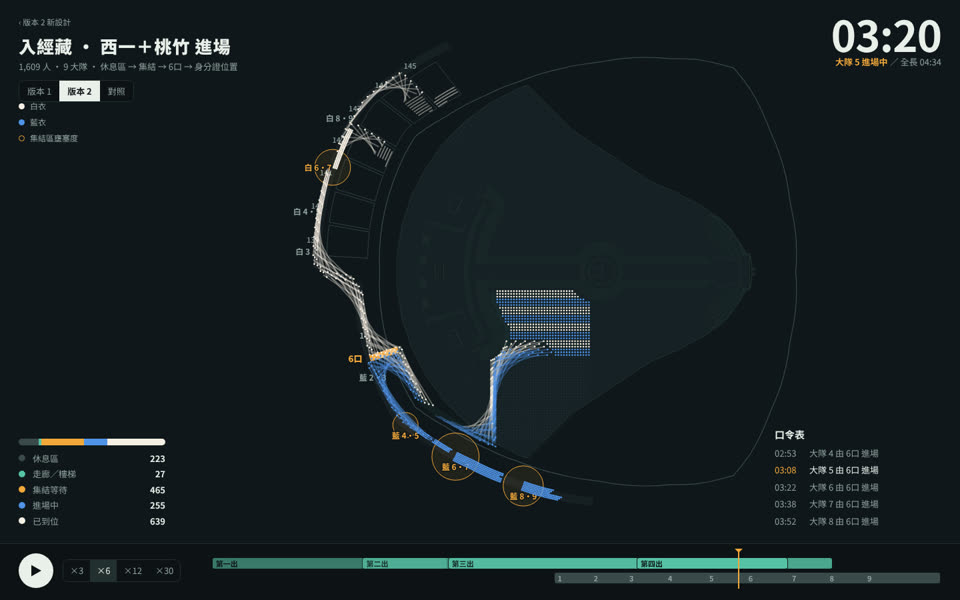
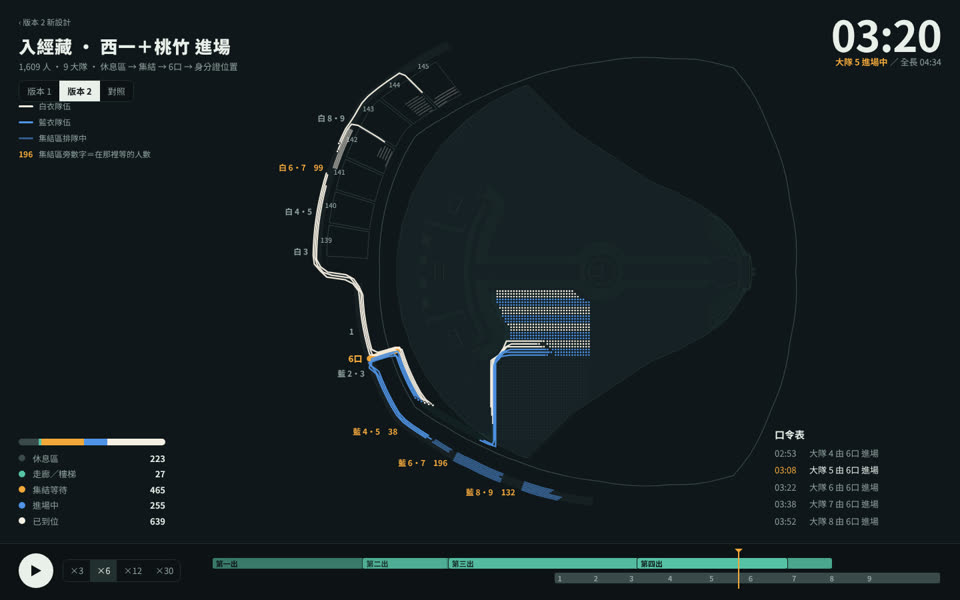
feat(taipei-dome): 版本 2 新設計的指揮台改畫隊伍線
- 拿掉每人 2 秒拖尾（兩、三百條半透明斜線在 6口 與看台出口疊成一團，轉彎處還會斜切）
- 同一列、同一階段（走／等／進場）的人依前後順序連成一條隊伍線，距離拉開就斷開；
  行進中的線頭加點標出前方，集結區排隊中的列畫淡
- 集結區不再畫壅塞圈，名稱旁直接寫此刻等待人數；名稱右對齊放在看台外側，不壓看台編號
- 窄地圖（手機、對照時的半寬）多留左側空間；對照時收起圖例；手機時鐘移到右下
- 首頁說明與截圖同步更新

Claude-Session: https://claude.ai/code/session_01JFbRJwaNxoE8n7MabkGeoG

Changed region(s): [[0.2812, 0.18, 0.5938, 0.84], [0.0, 0.15, 0.1562, 0.27], [0.375, 0.09, 0.4688, 0.18]]

diff --git a/design-explorations/taipei-dome/flow/entry-animation-v2/redesign/a-console.html b/design-explorations/taipei-dome/flow/entry-animation-v2/redesign/a-console.html
@@ -53,6 +53,8 @@ canvas{display:block;width:100%;height:100%}
 .legend{position:absolute;left:28px;top:150px;display:flex;flex-direction:column;gap:6px;font-size:12px;color:var(--dim);z-index:2}
 .legend span{display:flex;align-items:center;gap:8px}
 .legend i{width:9px;height:9px;border-radius:50%}
+.legend i.ln{width:22px;height:3px;border-radius:2px}.legend i.ln.dim{opacity:.55}
+.legend .num{color:var(--amber);font-size:12px;min-width:22px}
 /* 底部時間軸 */
 .deck{grid-row:2;border-top:1px solid var(--line);padding:14px 28px 18px;display:grid;grid-template-columns:auto 1fr;gap:20px;align-items:center;background:var(--bg)}
 .ctl{display:flex;gap:6px;align-items:center}
@@ -73,8 +75,9 @@ canvas{display:block;width:100%;height:100%}
 .head{position:absolute;top:-6px;bottom:-4px;width:2px;background:var(--amber);pointer-events:none}
 .head::after{content:'';position:absolute;top:-4px;left:-5px;border:6px solid transparent;border-top-color:var(--amber)}
 .track.has-labels{margin-left:44px}
+.cmp-mode .legend{display:none}
 .loading{position:absolute;inset:0;display:grid;place-items:center;color:var(--dim)}
-@media(max-width:860px){.focus,.legend{display:none}.title p{display:none}.clock{top:auto;bottom:200px;right:16px}.clock b{font-size:36px}.title h1{font-size:20px}.flows{width:180px;left:16px}.deck{padding:10px 16px;grid-template-columns:1fr}.title{left:16px}.maps.cmp{grid-template-columns:1fr;grid-template-rows:1fr 1fr}.pane+.pane{border-left:0;border-top:1px solid var(--line)}.cmp-mode .flows{display:none}.cmp-mode .clock{bottom:auto;top:14px}.cmp-mode .clock b{font-size:28px}.cmp-mode .clock .phase,.cmp-mode .title h1{display:none}.pane h2{bottom:8px;font-size:13px}}
+@media(max-width:860px){.focus,.legend{display:none}.title p{display:none}.clock{top:auto;bottom:24px;right:16px;max-width:150px}.clock b{font-size:34px}.clock span{display:block}.title h1{font-size:20px}.flows{width:180px;left:16px}.deck{padding:10px 16px;grid-template-columns:1fr}.title{left:16px}.maps.cmp{grid-template-columns:1fr;grid-template-rows:1fr 1fr}.pane+.pane{border-left:0;border-top:1px solid var(--line)}.cmp-mode .flows{display:none}.cmp-mode .clock{bottom:auto;top:14px}.cmp-mode .clock b{font-size:28px}.cmp-mode .clock .phase,.cmp-mode .title h1{display:none}.pane h2{bottom:8px;font-size:13px}}
 </style>
 </head>
 <body>
@@ -83,7 +86,7 @@ canvas{display:block;width:100%;height:100%}
  <div class="hud">
  <div class="title"><a href="index.html">‹ 版本 2 新設計</a><h1>入經藏 · 西一＋桃竹 進場</h1><p>1,609 人 · 9 大隊 · 休息區 → 集結 → 6口 → 身分證位置</p><div id="vs"></div></div>
  <div class="clock"><b id="clock">00:00</b><span class="phase" id="phase"></span> <span>／ 全長 <span id="end"></span></span></div>
- <div class="legend"><span><i style="background:var(--white)"></i>白衣</span><span><i style="background:var(--blue)"></i>藍衣</span><span><i style="border:1.5px solid var(--amber)"></i>集結區壅塞度</span></div>
+ <div class="legend"><span><i class="ln" style="background:var(--white)"></i>白衣隊伍</span><span><i class="ln" style="background:var(--blue)"></i>藍衣隊伍</span><span><i class="ln dim" style="background:var(--blue)"></i>集結區排隊中</span><span><b class="num">196</b>集結區旁數字＝在那裡等的人數</span></div>
  <div class="flows" id="flows"></div>
  <div class="focus" id="focus"><strong>口令表</strong><ol id="cues"></ol></div>
  </div>
@@ -102,7 +105,7 @@ const {pos,state,counts,fmt,delta,View}=Dome,$=id=>document.getElementById(id);
 const css=n=>getComputedStyle(document.documentElement).getPropertyValue('--'+n).trim();
 const C={};for(const n of ['map','floor','line','faint','dim','ink','white','blue','amber','teal','bg'])C[n]=css(n);
 const STATES=[['seated','休息區',C.faint],['walk','走廊／樓梯',C.teal],['wait','集結等待',C.amber],['enter','進場中',C.blue],['done','已到位',C.white]];
-const FRAME=[-15.5,-11.6,4,11.6];
+const frameFor=v=>v.w<760?[-19,-11.6,4,11.6]:[-15.5,-11.6,4,11.6];
 let sets=[],panes=[],t=0,playing=false,speed=6,last=0,dirty=true,T=1,cues=[];
 const pct=x=>x/T*100+'%';
 function stats(ds){const P=ds.P,waves=[1,2,3,4].map(w=>{const ts=P.filter(p=>p.exitWave===w).map(p=>p.t.leave);return {w,a:Math.min(...ts),b:Math.max(...ts)};});
@@ -113,7 +116,7 @@ async function setVersion(m){$('loading')&&($('loading').hidden=false);
  T=Math.max(...sets.map(d=>d.T_END));t=Math.min(t,T);
  const cmp=sets.length>1;$('maps').className='maps'+(cmp?' cmp':'');$('stage').classList.toggle('cmp-mode',cmp);
  $('maps').innerHTML=sets.map((d,i)=>`<div class="pane"><canvas id="cv${i}" aria-label="${d.label}動線地圖"></canvas><h2>${d.label}<small>${d.sub}</small></h2></div>`).join('');
- panes=sets.map((d,i)=>{const v=new View($('cv'+i),{pad:cmp?24:40});v.fit(FRAME,true);v.onresize=()=>{v.fit(FRAME,true);dirty=true;};return v;});
+ panes=sets.map((d,i)=>{const v=new View($('cv'+i),{pad:cmp?24:40});v.fit(frameFor(v),true);v.onresize=()=>{v.fit(frameFor(v),true);dirty=true;};return v;});
  $('end').textContent=cmp?sets.map(d=>fmt(d.T_END)).join(' / '):fmt(T);
  $('focus').hidden=cmp;
  // 時間軸：單版本 = 四出 + 九大隊；對照 = 兩版各一條大隊軌
@@ -127,19 +130,25 @@ async function setVersion(m){$('loading')&&($('loading').hidden=false);
  $('dl').innerHTML=STATES.map(([k,l,c])=>`<dt style="background:${c}"></dt><dd class="l">${l}</dd>${cmp?`<dd class="n" data-n="0-${k}"></dd>`:''}<dd class="n" data-n="${sets.length-1}-${k}"></dd>`).join('');
  $('loading')&&$('loading').remove();dirty=true;}
 function phaseName(ds){const c=counts(t,ds.P),{waves,dad}=ds.s;if(c.done===ds.P.length)return '全員到位';if(t<waves[0].a)return '休息區就座';if(t<dad[0].a)return '離座 · 往集結';return `大隊 ${dad.filter(o=>t>=o.a).pop().k} 進場中`;}
-function drawPane(v,ds){const c=v.begin(C.map),D=ds.D,P=ds.P;
+function drawPane(v,ds){const c=v.begin(C.map),D=ds.D,P=ds.P,r=Math.max(1.1,.042*v.s);
  v.base(D.map,{floor:C.floor,fieldLine:C.line,stage:C.line,wall:C.faint,band:C.dim,bandA:.07,lane:C.teal,laneA:.06,stand:C.faint,gate:C.amber});
- for(const s of D.map.stands)v.text(s.sec,...s.labelXY,{color:C.dim,size:11,dx:-14});
+ for(const s of D.map.stands)v.text(s.sec,...s.labelXY,{color:C.dim,size:10,dx:6});
  c.globalAlpha=.35;for(const p of P)if(state(p,t)!=='done')v.dot(p.field.X,p.field.Y,Math.max(.6,.03*v.s),null,C.faint,.6);c.globalAlpha=1;
- // 集結區壅塞環：半徑∝等待人數
+ // 集結區：名稱旁直接寫此刻等待人數，不畫圈，免得蓋住排隊的人
  const wait={};for(const p of P)if(state(p,t)==='wait')wait[p.assembly]=(wait[p.assembly]||0)+1;
- for(const [k,n] of Object.entries(D.nodes)){if(!/^P\d$/.test(k))continue;const w=wait[k]||0;if(w)v.dot(n.X,n.Y,6+Math.sqrt(w)*2.1,'rgba(242,167,59,.08)',C.amber,1);v.text(n.label,n.X,n.Y,{color:w?C.amber:C.dim,size:12,weight:700,halo:C.map,dx:n.floor==='B1'?-22:0,dy:n.floor==='B1'?0:16});}
+ for(const [k,n] of Object.entries(D.nodes)){if(!/^P\d$/.test(k))continue;const w=wait[k]||0;v.text(w?`${n.label}　${w}`:n.label,n.X,n.Y,{color:w?C.amber:C.dim,size:12,weight:700,halo:C.map,align:'right',dx:n.floor==='B1'?-14:-12,dy:n.floor==='B1'?0:10});}
  v.text('6口',D.nodes.GATE6.X,D.nodes.GATE6.Y,{color:C.amber,size:13,weight:900,halo:C.map,dx:-22});
- const r=Math.max(1.1,.042*v.s);
- for(const p of P){const st=state(p,t),col=p.costume==='白'?C.white:C.blue,q=pos(p,t);
-  if(st==='walk'||st==='enter'){const q0=pos(p,Math.max(0,t-2.2));c.globalAlpha=.35;v.stroke([q0[0],q0[1],q[0],q[1]],col,r*1.4);c.globalAlpha=1;v.dot(q[0],q[1],r,col);}
-  else if(st==='seated'){c.globalAlpha=.45;v.dot(q[0],q[1],r*.8,col);c.globalAlpha=1;}
-  else v.dot(q[0],q[1],r,col);}}
+ // 休息區淡點、到位實點
+ for(const p of P){const st=state(p,t);if(st!=='seated'&&st!=='done')continue;const q=pos(p,t);c.globalAlpha=st==='seated'?.3:1;v.dot(q[0],q[1],st==='seated'?r*.7:r,p.costume==='白'?C.white:C.blue);}c.globalAlpha=1;
+ // 隊伍線：同一列、同一階段（走／等／進場）的人依前後順序連成一條；彼此距離拉開就斷開。排隊中畫淡，行進中在線頭加點標出前方
+ const rows=new Map();for(const p of P){const st=state(p,t);if(st==='seated'||st==='done')continue;const key=p.lie+'|'+st;(rows.get(key)||rows.set(key,[]).get(key)).push(p);}
+ c.lineCap='round';c.lineJoin='round';
+ for(const [key,ps] of rows){const st=key.split('|')[1],col=ps[0].costume==='白'?C.white:C.blue;
+  ps.sort((a,b)=>st==='enter'?a.t.gate-b.t.gate:st==='wait'?a.t.assembly-b.t.assembly:a.t.leave-b.t.leave);
+  const pts=ps.map(p=>pos(p,t));let seg=[pts[0]];
+  const flush=()=>{c.globalAlpha=st==='wait'?.55:.95;if(seg.length>1)v.stroke(seg.flat(),col,r*1.7);else v.dot(seg[0][0],seg[0][1],r,col);c.globalAlpha=1;};
+  for(let i=1;i<pts.length;i++){const a=pts[i-1],b=pts[i];if(Math.hypot(a[0]-b[0],a[1]-b[1])>.45){flush();seg=[b];}else seg.push(b);}flush();
+  if(st!=='wait')v.dot(pts[0][0],pts[0][1],r*1.5,col,C.map,1);}}
 function ui(){const cmp=sets.length>1,cs=sets.map(d=>counts(t,d.P));
  sets.forEach((d,i)=>{for(const [k] of STATES){$('bar'+i).querySelector(`[data-k=${k}]`).style.width=cs[i][k]/d.P.length*100+'%';const n=document.querySelector(`[data-n="${i}-${k}"]`);if(n)n.textContent=cs[i][k].toLocaleString('zh-TW');}});
  $('clock').textContent=fmt(t);$('phase').textContent=cmp?sets.map(d=>`${d.label.replace('版本 ','v')}：${phaseName(d)}`).join('　'):phaseName(sets[0]);$('head').style.left=pct(t);

diff --git a/design-explorations/taipei-dome/flow/entry-animation-v2/redesign/index.html b/design-explorations/taipei-dome/flow/entry-animation-v2/redesign/index.html
@@ -82,8 +82,8 @@ h2+p.sub{margin:-6px 0 18px;color:var(--dim);max-width:64ch}
  <tr><th>想做的事</th><th>原本的版本 2 頁</th><th>新設計</th></tr>
  <tr><td>找自己的路</td><td>側欄輸入「列-排」，四步口令卡；地圖北朝上，畫全部 1,609 人</td><td><a href="b-journey.html">B 我的路</a>：手機優先，列、排分兩格輸入；地圖甲舞台朝上，與 app《我的走位》同向，只畫你和你這一列</td></tr>
  <tr><td>大隊長喊口令</td><td>用篩選留下一個大隊，自己看時間軸推算</td><td><a href="e-captain.html">E 口令卡</a>：整頁換成大隊色，下一個口令與倒數、六列各自到齊沒</td></tr>
- <tr><td>看全場、投影說明</td><td>地圖＋播放列＋四格統計，側欄占三分之一</td><td><a href="a-console.html">A 指揮台</a>：滿版深色、移動拖尾、自動往前捲的口令表</td></tr>
- <tr><td>找瓶頸、調排程</td><td>播放時看集結區壅塞圈</td><td><a href="c-score.html">C 總譜</a>：54 列 × 時間攤開，每人一條線，橘色越長等越久</td></tr>
+ <tr><td>看全場、投影說明</td><td>地圖＋播放列＋四格統計，側欄占三分之一</td><td><a href="a-console.html">A 指揮台</a>：滿版深色、每一列畫成一條隊伍線、自動往前捲的口令表</td></tr>
+ <tr><td>找瓶頸、調排程</td><td>播放時看集結區的人數圈</td><td><a href="c-score.html">C 總譜</a>：54 列 × 時間攤開，每人一條線，橘色越長等越久</td></tr>
  <tr><td>印給集結區</td><td>沒有</td><td><a href="d-keyframes.html">D 講義</a>：六個關鍵時刻，A3 橫式</td></tr>
  <tr><td>和版本 1 比</td><td>另開版本 1 頁來回切</td><td>每頁右上角都有「對照」</td></tr>
 </table></div>
@@ -95,7 +95,7 @@ h2+p.sub{margin:-6px 0 18px;color:var(--dim);max-width:64ch}
  <div>
   <h3>A · 演練指揮台</h3>
   <p class="who">企劃 · 行前說明會投影、彩排檢討</p>
-  <p>地圖滿版、深底投影，介面退到四角。人用短拖尾表示移動方向，集結區用橘色圈的大小講壅塞程度；版本 2 的白衣區在 B1、藍衣區在 B2，兩層的壅塞一眼就分得出來。底部一條時間軸放「第一～四出」與「大隊 1–9 進場」兩軌。</p>
+  <p>地圖滿版、深底投影，介面退到四角。同一列正在走的人連成一條<b>隊伍線</b>，線頭的點是前方；在集結區排隊的列畫淡，集結區名稱旁直接寫此刻在那裡等的人數。投影在遠處看，就是一列一列的隊伍在走，和現場「第幾列跟上」的口令對得起來。底部一條時間軸放「第一～四出」與「大隊 1–9 進場」兩軌。</p>
   <dl><dt>相較原本</dt><dd>拿掉側欄與篩選，地圖從約三分之二寬變成滿版</dd></dl>
   <div class="open"><a href="a-console.html">打開</a><a href="a-console.html?v=cmp">和版本 1 對照</a></div>
  </div>
